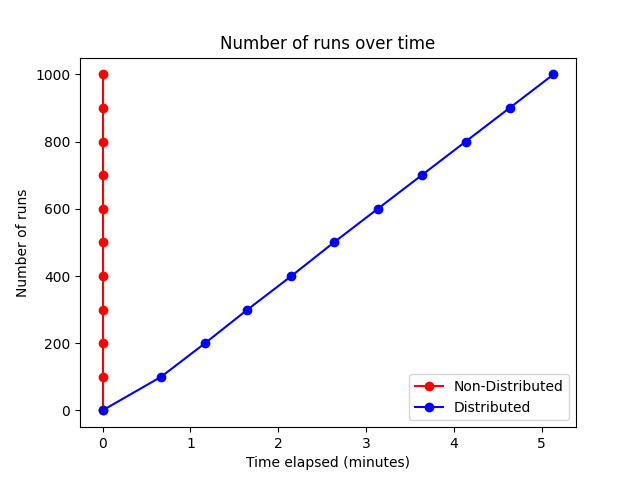
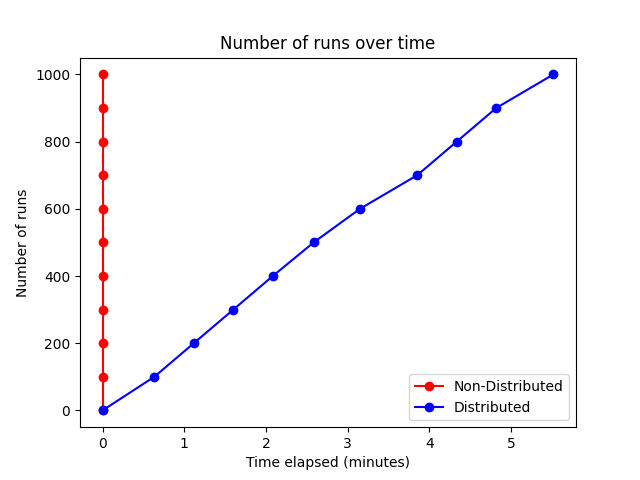
update

diff --git a/plots/performance.py b/plots/performance.py
@@ -3,17 +3,17 @@ from datetime import datetime
 
 # Your data
 timestamps_elves = [
-"16:53:19",
-"16:54:27",
-"16:55:29",
-"16:56:31",
-"16:57:32",
-"16:58:34",
-"16:59:36",
-"17:00:37",
-"17:01:40",
-"17:02:41",
-"17:03:41",
+"15:19:23",
+"15:20:27",
+"15:21:27",
+"15:22:27",
+"15:23:28",
+"15:24:30",
+"15:39:30",
+"15:40:35",
+"15:41:39",
+"15:42:42",
+"15:43:46",
 ]
 
 timestamps_reindeer = [
@@ -45,17 +45,17 @@ timestamps_non_distributed = [
 ]
 
 timestamps_distributed = [
-"18:02:49",
-"18:03:29",
-"18:03:59",
-"18:04:28",
-"18:04:58",
-"18:05:27",
-"18:05:57",
-"18:06:27",
-"18:06:57",
-"18:07:27",
-"18:07:57",
+"19:21:17",
+"19:21:55",
+"19:22:24",
+"19:22:53",
+"19:23:22",
+"19:23:52",
+"19:24:26",
+"19:25:08",
+"19:25:37",
+"19:26:06",
+"19:26:48",
 ]
 
 runs = [0, 100, 200, 300, 400, 500, 600, 700, 800, 900, 1000]
@@ -64,8 +64,8 @@ runs = [0, 100, 200, 300, 400, 500, 600, 700, 800, 900, 1000]
 #timestamps_elves = [(datetime.strptime(time, "%H:%M:%S") - datetime.strptime(timestamps_elves[0], "%H:%M:%S")).seconds / 60.0 for time in timestamps_elves]
 #timestamps_reindeer = [(datetime.strptime(time, "%H:%M:%S") - datetime.strptime(timestamps_reindeer[0], "%H:%M:%S")).seconds / 60.0 for time in timestamps_reindeer]
 
-timestamps_non_distributed = [(datetime.strptime(time, "%H:%M:%S") - datetime.strptime(timestamps_non_distributed[0], "%H:%M:%S")).seconds / 60.0 for time in timestamps_non_distributed]
-timestamps_distributed = [(datetime.strptime(time, "%H:%M:%S") - datetime.strptime(timestamps_distributed[0], "%H:%M:%S")).seconds / 60.0 for time in timestamps_distributed]
+timestamps_elves = [(datetime.strptime(time, "%H:%M:%S") - datetime.strptime(timestamps_elves[0], "%H:%M:%S")).seconds / 60.0 for time in timestamps_elves]
+timestamps_reindeer = [(datetime.strptime(time, "%H:%M:%S") - datetime.strptime(timestamps_reindeer[0], "%H:%M:%S")).seconds / 60.0 for time in timestamps_reindeer]
 
 # Create a figure and a subplot
 fig, ax1 = plt.subplots()
@@ -74,14 +74,14 @@ fig, ax1 = plt.subplots()
 #ax1.plot(timestamps_elves, runs, '-o', color='green')
 #ax1.plot(timestamps_reindeer, runs, '-o', color='brown')
 
-ax1.plot(timestamps_non_distributed, runs, '-o', color='red')
-ax1.plot(timestamps_distributed, runs, '-o', color='blue')
+ax1.plot(timestamps_elves, runs, '-o', color='red')
+ax1.plot(timestamps_reindeer, runs, '-o', color='blue')
 
 # Set the title and x label
 ax1.set_title('Number of runs over time')
 ax1.set_xlabel('Time elapsed (minutes)')
 ax1.set_ylabel('Number of runs')
-ax1.legend(['Non-Distributed', 'Distributed'])
+ax1.legend(['Elves', 'Reindeer'])
 
 # Show the plot
 plt.show()

diff --git a/threading/santa_thread.py b/threading/santa_thread.py
@@ -34,11 +34,11 @@ class ThreadedSantaTCPRequestHandler(socketserver.StreamRequestHandler):
         elif identifier == "E":  # Identifier is the Elves
             self.handle_elf_request()
 
-        #global system_runs
-        #system_runs += 1
+        global system_runs
+        system_runs += 1
 
-        #if system_runs % milestone == 0:
-        #    logger.info(f"System reached {system_runs} runs")
+        if system_runs % milestone == 0:
+            logger.info(f"System reached {system_runs} runs")
 
     def handle_reindeer_request(self):
         logger.info("Santa and the reindeer gets to work!")
@@ -56,12 +56,12 @@ class ThreadedSantaTCPRequestHandler(socketserver.StreamRequestHandler):
         for port in ports:
             self.send_message(LOCAL_HOST, port, buffer)
 
-        global reindeer_runs
-        reindeer_runs += 1
+        #global reindeer_runs
+        #reindeer_runs += 1
 
-        #Check for milestones for reindeer
-        if reindeer_runs % milestone == 0:
-           logger.info(f'Reindeer reached {reindeer_runs} runs')
+        ##Check for milestones for reindeer
+        #if reindeer_runs % milestone == 0:
+        #   logger.info(f'Reindeer reached {reindeer_runs} runs')
 
     def handle_elf_request(self):
         logger.info("Santa goes to help the elves")
